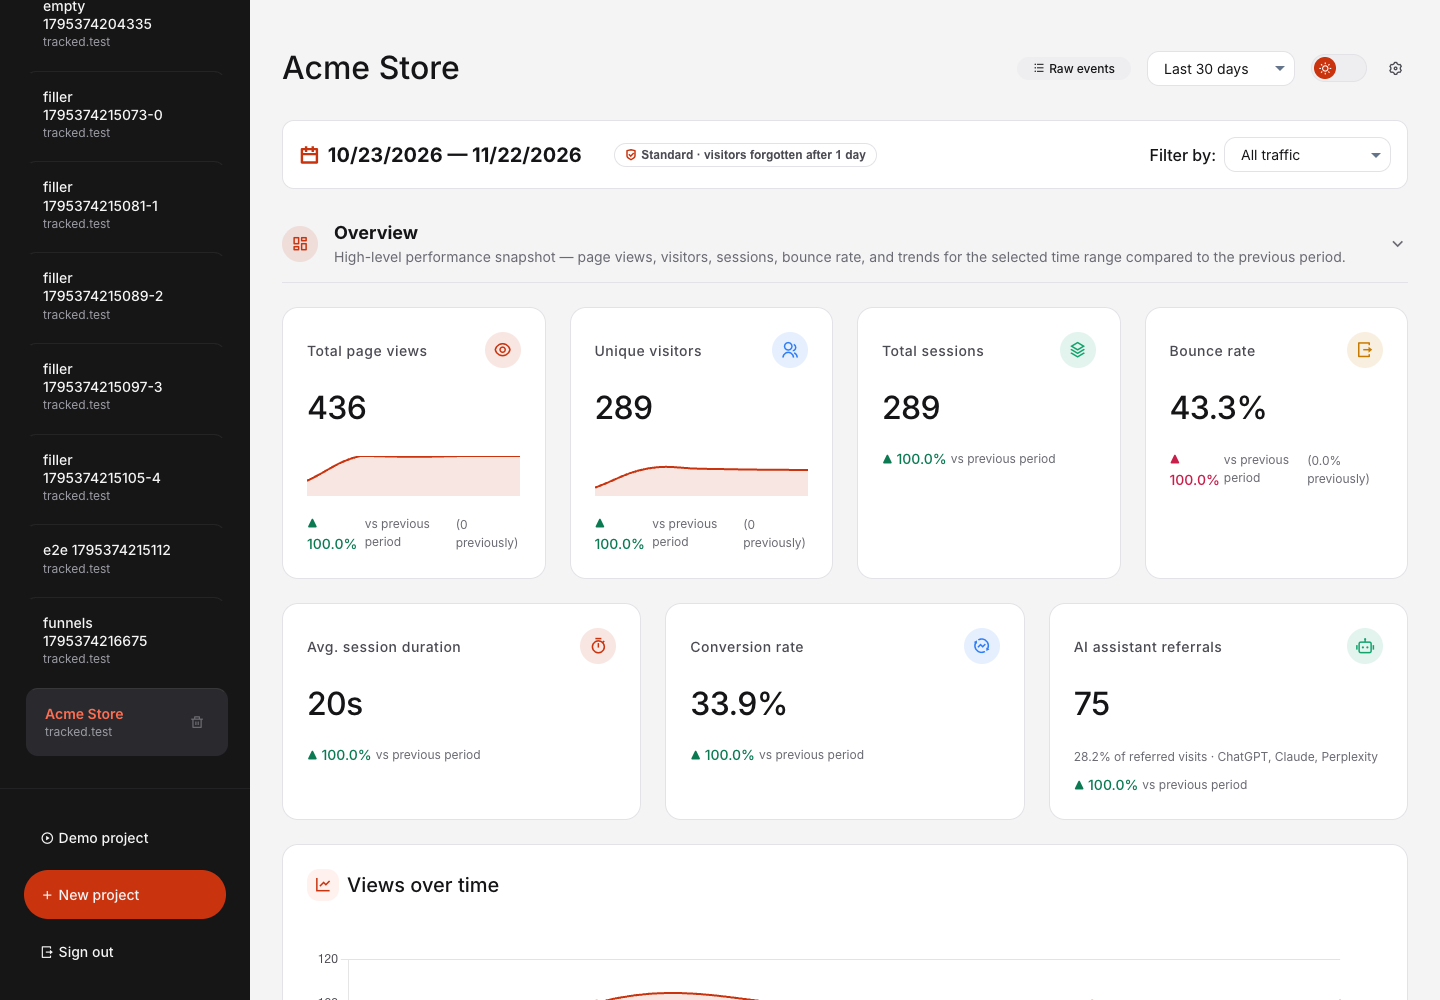
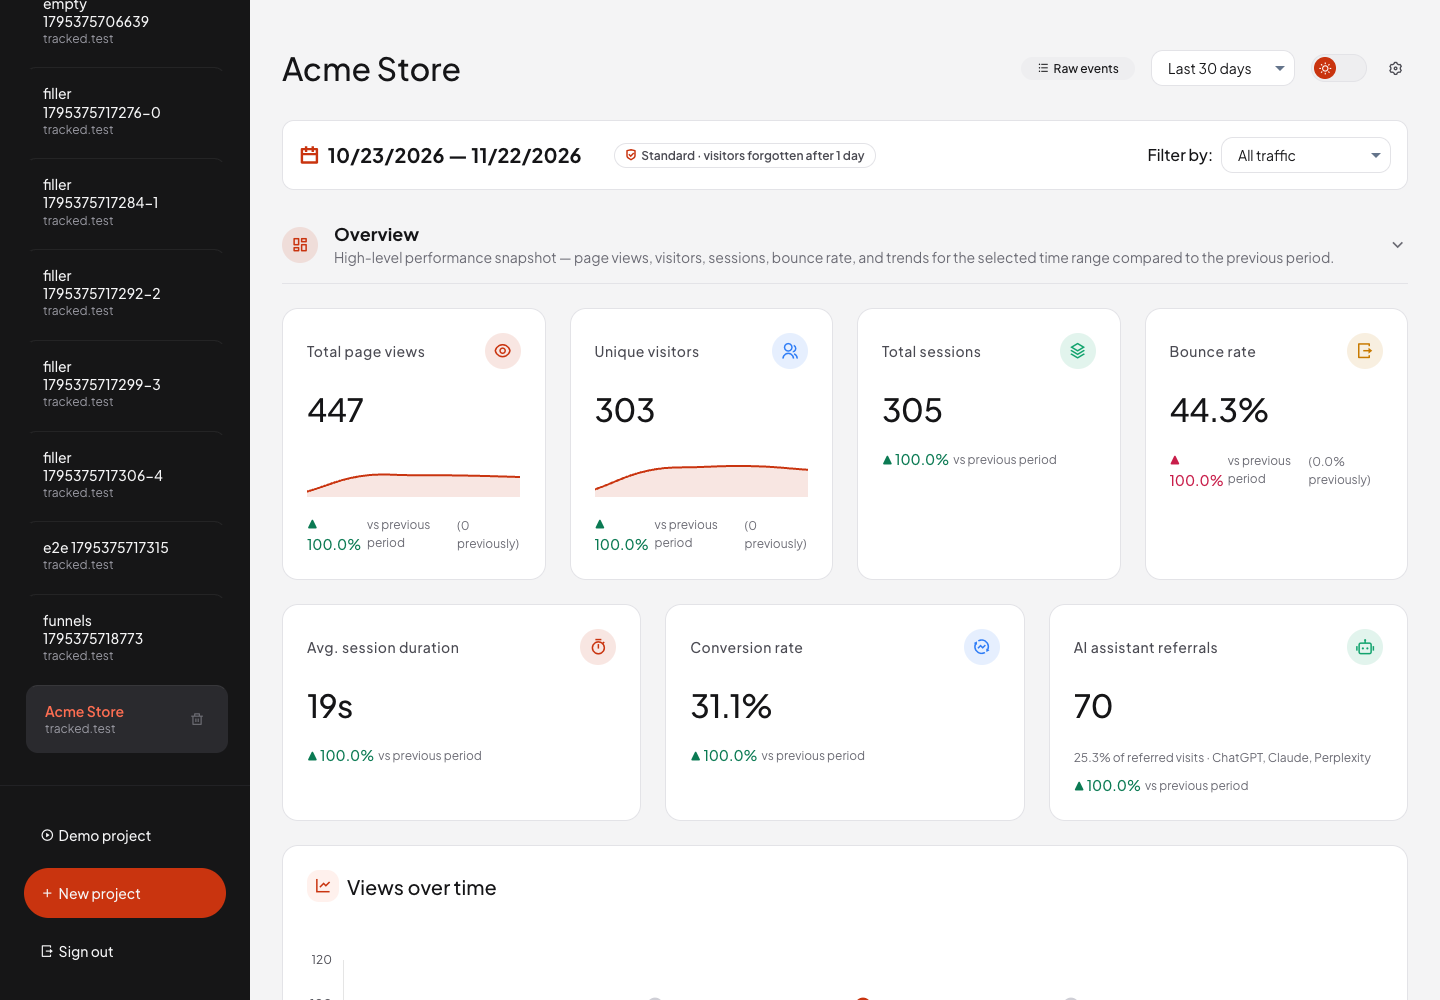
Draw Views over time as a dot-matrix chart
One column of dots per point in time; the tallest column carries the
accent with a dashed guide, and hovering moves it. Canvas text takes the
interface typeface from the token. Removes the line chart it replaces.

Claude-Session: https://claude.ai/code/session_01GuupkTZhZNqQKFXJpTZdVo

diff --git a/src/main/resources/static/js/charts.js b/src/main/resources/static/js/charts.js
@@ -3,6 +3,9 @@
  * Centralized chart creation, updates, and theme management
  */
 
+// Axis labels and tooltips are drawn on canvas, so they get the interface typeface from the token here
+Chart.defaults.font.family = Utils.token('--font-family-base');
+
 const ChartManager = {
   // Store chart instances
   instances: {},
@@ -23,7 +26,7 @@ const ChartManager = {
           usePointStyle: true,
           padding: 15,
           font: {
-            family: 'var(--font-family-base)',
+            family: Utils.token('--font-family-base'),
             size: 12,
           },
         },
@@ -417,7 +420,7 @@ const ChartManager = {
               display: true,
               color: colors.text,
               font: {
-                family: 'var(--font-family-base)',
+                family: Utils.token('--font-family-base'),
                 size: 11,
                 weight: '500'
               }
@@ -785,13 +788,14 @@ const ChartManager = {
   },
 
   /**
-   * Create line chart with area fill
+   * Create a dot-matrix chart: one column of dots per point in time, the column's height showing its value.
+   * The tallest column carries the accent, with a dashed guide to the axis; hovering moves the accent.
    * @param {string} id - Canvas element ID
    * @param {Array} data - Array of {timestamp, count} objects
    * @param {Object} options - Additional options
    * @returns {Chart} Chart instance
    */
-  createLineChart(id, data, options = {}) {
+  createDotMatrixChart(id, data, options = {}) {
     const colors = this.getColors();
     const labels = data.map((item) => {
       const date = new Date(item.timestamp);
@@ -802,32 +806,80 @@ const ChartManager = {
       });
     });
     const values = data.map((item) => item.count);
+    const peak = values.indexOf(Math.max(...values));
+    const quiet = Utils.token('--color-bar');
+    const accent = colors.primary;
+
+    // Chart.js lays out invisible bars (axes, tooltips, hover); this draws the dots where the bars would be
+    const dots = {
+      id: 'dotMatrix',
+      afterDatasetsDraw(chart) {
+        const { ctx, chartArea } = chart;
+        const bars = chart.getDatasetMeta(0).data;
+        if (!bars.length) return;
+        const slot = chartArea.width / bars.length;
+        const diameter = Math.max(2, Math.min(16, slot * 0.62));
+        const step = diameter * 1.3;
+        const hovered = chart.getActiveElements()[0]?.index;
+        const lit = hovered ?? peak;
+
+        ctx.save();
+        bars.forEach((bar, i) => {
+          const count = values[i] > 0 ? Math.max(1, Math.round((chartArea.bottom - bar.y) / step)) : 1;
+          ctx.fillStyle = i === lit ? accent : quiet;
+          ctx.globalAlpha = values[i] > 0 ? 1 : 0.4;
+          for (let k = 0; k < count; k++) {
+            ctx.beginPath();
+            ctx.arc(bar.x, chartArea.bottom - diameter / 2 - k * step, diameter / 2, 0, Math.PI * 2);
+            ctx.fill();
+          }
+        });
+
+        // Dashed guide from the axis to the top of the lit column
+        const litBar = bars[lit];
+        if (litBar && values[lit] > 0) {
+          const count = Math.max(1, Math.round((chartArea.bottom - litBar.y) / step));
+          const y = chartArea.bottom - diameter / 2 - (count - 1) * step;
+          ctx.globalAlpha = 1;
+          ctx.strokeStyle = accent;
+          ctx.fillStyle = accent;
+          ctx.lineWidth = 1.5;
+          ctx.setLineDash([5, 5]);
+          ctx.beginPath();
+          ctx.moveTo(chartArea.left, y);
+          ctx.lineTo(litBar.x - diameter, y);
+          ctx.stroke();
+          ctx.setLineDash([]);
+          ctx.beginPath();
+          ctx.arc(chartArea.left, y, 3, 0, Math.PI * 2);
+          ctx.fill();
+        }
+        ctx.restore();
+      },
+    };
 
     return this.create(
       id,
-      'line',
+      'bar',
       {
         labels: labels,
         datasets: [
           {
             label: 'Page views',
             data: values,
-            borderColor: colors.chart[0],
-            backgroundColor: colors.chartBg[0],
-            borderWidth: 2,
-            fill: true,
-            tension: 0.4,
-            pointRadius: 4,
-            pointHoverRadius: 6,
-            pointBackgroundColor: colors.chart[0],
-            pointBorderColor: colors.bgSecondary,
-            pointBorderWidth: 2,
+            backgroundColor: 'transparent',
+            hoverBackgroundColor: 'transparent',
+            borderWidth: 0,
+            barPercentage: 1,
+            categoryPercentage: 1,
           },
         ],
       },
       {
+        interaction: { mode: 'index', intersect: false },
         plugins: {
           legend: { display: false },
+          tooltip: { displayColors: false },
         },
         scales: {
           x: {
@@ -839,7 +891,7 @@ const ChartManager = {
             beginAtZero: true,
             grace: '10%',
             grid: {
-              display: true,
+              display: false,
             },
             ticks: {
               precision: 0,
@@ -850,7 +902,8 @@ const ChartManager = {
           },
         },
         ...options,
-      }
+      },
+      [dots]
     );
   },
 

diff --git a/src/main/resources/static/js/admin.js b/src/main/resources/static/js/admin.js
@@ -1216,12 +1216,12 @@ const Dashboard = {
       Utils.dom.showEmptyState(countriesEl.parentElement, { illustration: '/assets/set_3/png/034-web%20optimization.png', message: 'No geographic data', hint: 'Geographic data requires a GeoIP database' });
     }
 
-    // Time Series - Line Chart (uses pre-aggregated time series from comparison report)
+    // Time series - dot-matrix chart (uses pre-aggregated time series from comparison report)
     const timeseriesEl = document.getElementById('chart-timeseries');
     const tsData = this.state.data?.timeSeries;
     if (tsData?.length && timeseriesEl) {
       const timeData = tsData.map(point => ({ timestamp: point.timestamp, count: point.views }));
-      ChartManager.createLineChart('chart-timeseries', timeData);
+      ChartManager.createDotMatrixChart('chart-timeseries', timeData);
     } else if (timeseriesEl) {
       Utils.dom.showEmptyState(timeseriesEl.parentElement, { illustration: '/assets/set_3/png/032-graph%20line.png', message: 'No time series data' });
     }
